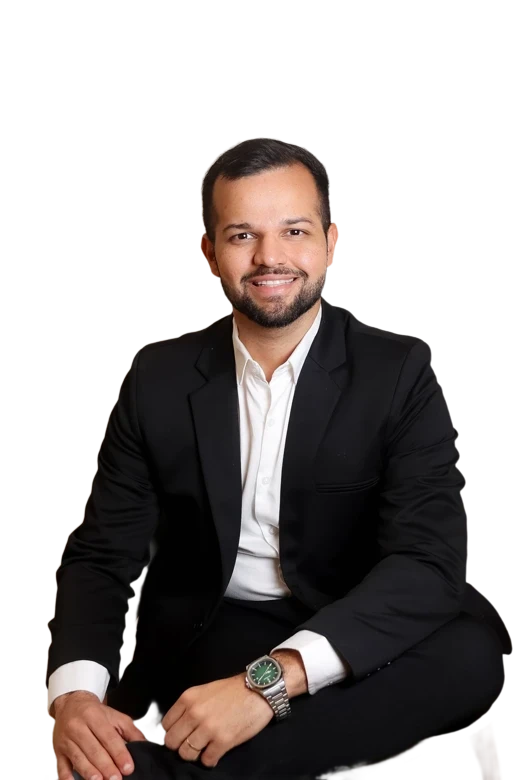
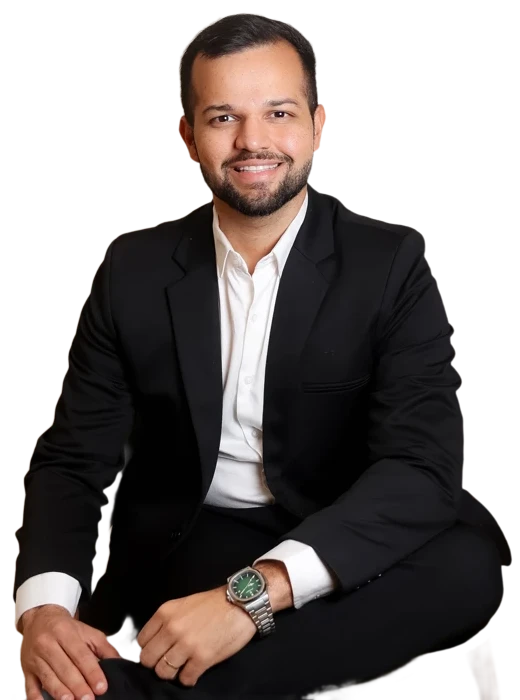
Aumenta e aperta o enquadramento da foto do hero
Recorta o excesso de fundo transparente acima da cabeca (bounding box
real do recorte) e aumenta o tamanho maximo da imagem (440->520px
mobile, 480->620px desktop) pra ele ocupar mais espaco visual.

Claude-Session: https://claude.ai/code/session_01WCMxZqdhdGXRAwGsvYZxab

diff --git a/index.html b/index.html
@@ -255,7 +255,7 @@ header{position:sticky;top:0;z-index:50;background:rgba(7,26,50,.9);backdrop-fil
   pointer-events:none;z-index:0}
 .hero-photo::after{content:"";position:absolute;left:50%;bottom:6%;width:58%;height:8%;transform:translateX(-50%);
   background:radial-gradient(ellipse,rgba(0,0,0,.4),transparent 72%);pointer-events:none;z-index:0}
-.hero-photo img{position:relative;z-index:1;width:88%;max-width:440px;height:auto;display:block;margin-inline:auto;
+.hero-photo img{position:relative;z-index:1;width:100%;max-width:520px;height:auto;display:block;margin-inline:auto;
   filter:drop-shadow(0 26px 34px rgba(0,0,0,.4))}
 .crm-card{position:absolute;z-index:3;left:2%;bottom:8%;background:rgba(255,255,255,.96);color:var(--ink);border-radius:14px;padding:12px 18px;box-shadow:0 14px 34px rgba(0,0,0,.35);backdrop-filter:blur(4px)}
 .crm-card b{display:block;color:var(--navy);font-size:.92rem}
@@ -267,7 +267,7 @@ header{position:sticky;top:0;z-index:50;background:rgba(7,26,50,.9);backdrop-fil
   .hero-grid{grid-template-columns:1.05fr .95fr;align-items:end;column-gap:40px;padding-top:84px}
   .hero-txt{padding-bottom:64px}
   .hero-photo{padding-top:0;align-items:flex-end;height:100%}
-  .hero-photo img{width:100%;max-width:480px}
+  .hero-photo img{width:100%;max-width:620px}
   .crm-card{left:-18px;bottom:8%}
   .hero-name{position:absolute;left:0;right:0;bottom:-2%;transform:none}
 }
@@ -503,7 +503,7 @@ footer a:hover{color:#fff}
       <p class="hero-note hi hi-6"><svg viewBox="0 0 24 24" fill="none" stroke="currentColor" stroke-width="2" stroke-linecap="round" stroke-linejoin="round"><path d="M12 22s8-4 8-10V5l-8-3-8 3v7c0 6 8 10 8 10z"/></svg>Investigação com testes alérgicos e anamnese detalhada</p>
     </div>
     <div class="hero-photo hi hi-7">
-      <img src="img/dr-bruno-hero-cutout.webp" srcset="img/dr-bruno-hero-cutout-sm.webp 520w, img/dr-bruno-hero-cutout.webp 900w" sizes="(max-width:900px) 60vw, 480px" alt="Dr. Bruno William, alergista e imunologista" width="900" height="1350" fetchpriority="high">
+      <img src="img/dr-bruno-hero-cutout.webp" srcset="img/dr-bruno-hero-cutout-sm.webp 520w, img/dr-bruno-hero-cutout.webp 900w" sizes="(max-width:900px) 78vw, 560px" alt="Dr. Bruno William, alergista e imunologista" width="900" height="1212" fetchpriority="high">
       <div class="crm-card"><b>CRM-SP 222528</b><span>Residência UNIFESP · Alergia e Imunologia Pediátrica</span></div>
     </div>
   </div>
